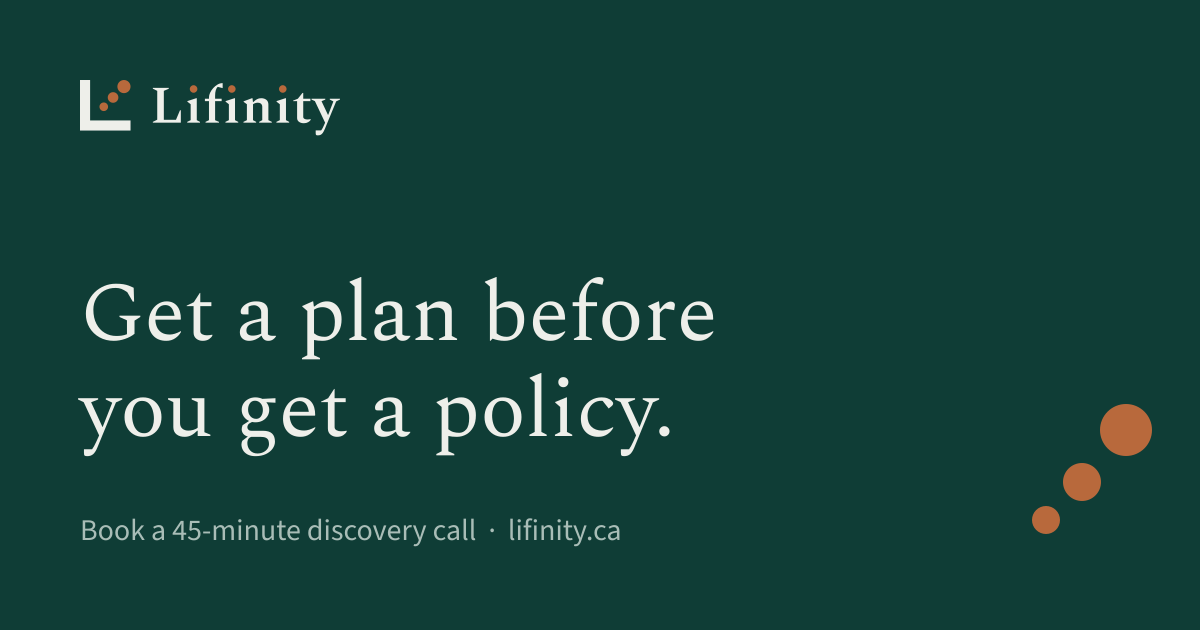
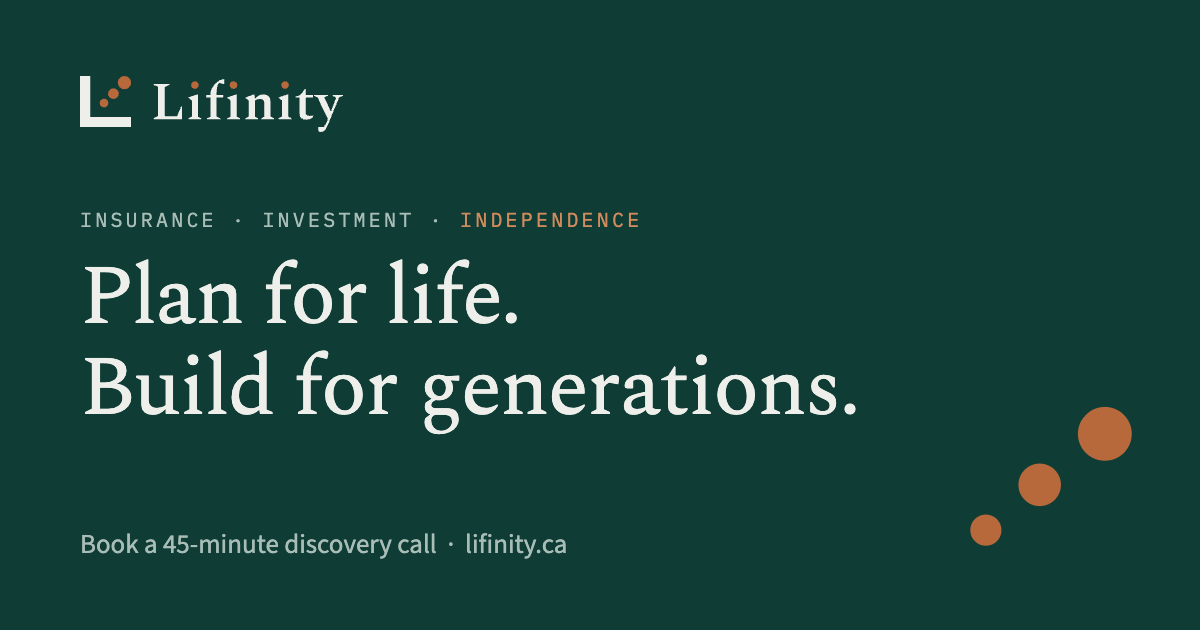
New hero: long-term planning and the three i's in Lifinity

diff --git a/index.html b/index.html
@@ -8,8 +8,8 @@
 <meta property="og:type" content="website">
 <meta property="og:url" content="https://lifinity.ca/">
 <meta property="og:title" content="Lifinity Financial Services">
-<meta property="og:description" content="Get a plan before you get a policy. Book a 45-minute discovery call with G Mon, RRA.">
-<meta property="og:image" content="https://lifinity.ca/og-image.png">
+<meta property="og:description" content="Plan for life. Build for generations. One long-term plan for families and business owners in NS, ON, AB, BC and SK.">
+<meta property="og:image" content="https://lifinity.ca/og-image.png?v=2">
 <meta name="twitter:card" content="summary_large_image">
 <link rel="icon" href="/favicon.svg" type="image/svg+xml">
 <link rel="icon" href="/favicon-32.png" sizes="32x32" type="image/png">
@@ -98,10 +98,15 @@ p{margin:0}
 .portrait figcaption span{font-size:.82rem;color:var(--band-muted)}
 .idea{position:relative;background:var(--band);color:var(--band-ink);border-radius:var(--radius);aspect-ratio:4/5;overflow:hidden;padding:clamp(1.6rem,3vw,2.4rem);display:flex;flex-direction:column;gap:.9rem;min-width:0;margin:0}
 .idea .eq{font-family:var(--f-mono);font-size:.78rem;letter-spacing:.14em;text-transform:uppercase;color:var(--band-muted)}
+.idea .eq .word{color:var(--band-ink)}
 .idea .eq b{color:var(--accent);font-weight:500}
 .idea .say{font-family:var(--f-display);font-weight:400;font-size:clamp(1.55rem,1.15rem + 1.3vw,2.25rem);line-height:1.15;color:var(--band-ink);max-width:13ch}
-.idea .corner{position:absolute;left:13%;bottom:13%;width:56%;height:44%;border-left:clamp(14px,2vw,22px) solid var(--band-ink);border-bottom:clamp(14px,2vw,22px) solid var(--band-ink)}
-.idea .mark-dots{position:absolute;left:34%;bottom:36%;width:44%;height:auto}
+.idea .say span{display:block}
+.idea .say b{color:var(--accent);font-weight:inherit}
+.idea .corner{position:absolute;left:13%;bottom:13%;width:56%;height:40%;border-left:clamp(14px,2vw,22px) solid var(--band-ink);border-bottom:clamp(14px,2vw,22px) solid var(--band-ink)}
+.idea .mark-dots{position:absolute;left:34%;bottom:31%;width:42%;height:auto}
+.h1a{display:block}
+.nowrap{white-space:nowrap}
 .idea .chapters{position:absolute;left:13%;right:9%;bottom:5.5%;display:flex;justify-content:space-between;gap:.5rem;font-family:var(--f-mono);font-size:.66rem;letter-spacing:.12em;text-transform:uppercase;color:var(--band-muted)}
 .about-portrait{margin-top:1.4rem}
 .letter .portrait::before{border-color:var(--band-ink)}
@@ -274,7 +279,8 @@ footer .wrap{display:grid;gap:2.2rem}
   .facts b{font-size:1.12rem}
   .facts li{font-size:.7rem;letter-spacing:.02em;line-height:1.45}
   .idea{min-height:380px;max-width:none;margin-top:.6rem}
-  .idea .say{font-size:1.45rem;max-width:12ch}
+  .idea .say{font-size:1.45rem;max-width:13ch}
+  .h1a{display:inline}
   .idea .corner{bottom:18%;height:31%;width:50%}
   .idea .mark-dots{bottom:38%;width:40%;left:30%}
   .idea .chapters{font-size:.58rem;letter-spacing:.07em;left:8%;right:8%}
@@ -312,24 +318,24 @@ footer .wrap{display:grid;gap:2.2rem}
     <div class="wrap">
       <div class="hero-copy">
         <span class="eyebrow"><span class="dots" aria-hidden="true"><i></i><i></i><i></i></span><span class="long">Lifinity Financial Services · Halifax, NS</span><span class="short">Lifinity · Halifax, NS</span></span>
-        <h1 id="hero-title">Get a plan before you get&nbsp;a&nbsp;policy.</h1>
-        <p class="lede"><span class="long">Lifinity helps families and business owners protect what they have, build for retirement and pass on what they've built. Every plan starts with a 45-minute discovery call, and <strong>the first thing you hear is how your advisor is paid.</strong></span><span class="short">Protect your family, build for retirement and pass it on. <strong>First, you hear how your advisor is paid.</strong></span></p>
+        <h1 id="hero-title"><span class="h1a">Plan for life.</span> Build for generations.</h1>
+        <p class="lede"><span class="long">Lifinity builds one long-term plan for families and business owners: protecting what you have, growing what you save and building the independence to live and retire on your terms.</span><span class="short">One long-term plan to protect what you have, grow what you save and retire on your terms.</span></p>
         <div class="cta-row">
           <a class="btn btn-primary" href="https://scheduler.zoom.us/f/1klh9gol" target="_blank" rel="noopener">Book a discovery call <span class="arr" aria-hidden="true">&rarr;</span></a>
           <a class="btn btn-quiet" href="#how">See how it works</a>
         </div>
         <ul class="facts">
-          <li><b>5 provinces</b><span class="long">NS · ON · AB · BC · SK</span><span class="short">NS ON AB BC SK</span></li>
+          <li><b>5 provinces</b><span class="long nowrap">NS · ON · AB · BC · SK</span><span class="short">NS ON AB BC SK</span></li>
           <li><b>In writing</b><span class="long">a summary after your call</span><span class="short">after your call</span></li>
           <li><b>4 stages</b><span class="long">from Protect to Transfer</span><span class="short">life to legacy</span></li>
         </ul>
       </div>
-      <figure class="idea" aria-label="Lifinity means life plus infinity">
-        <p class="eq">Life + infinity = <b>Lifinity</b></p>
-        <p class="say">Planning that lasts longer than you do.</p>
+      <figure class="idea" aria-label="Lifinity means life plus infinity. Its three i's stand for insurance, investment and independence.">
+        <p class="eq">Life + infinity = <span class="word">L<b>i</b>f<b>i</b>n<b>i</b>ty</span></p>
+        <p class="say"><span><b>I</b>nsurance.</span> <span><b>I</b>nvestment.</span> <span><b>I</b>ndependence.</span></p>
         <span class="corner" aria-hidden="true"></span>
-        <svg class="mark-dots" viewBox="0 0 120 100" aria-hidden="true"><circle cx="14" cy="86" r="11" fill="var(--accent)"/><circle cx="52" cy="54" r="15" fill="var(--accent)"/><circle cx="98" cy="18" r="19" fill="var(--accent)"/></svg>
-        <span class="chapters" aria-hidden="true"><span>Protect</span><span>Accumulate</span><span>Utilize</span><span>Transfer</span></span>
+        <svg class="mark-dots" viewBox="0 -3 120 103" aria-hidden="true"><circle cx="14" cy="86" r="11" fill="var(--accent)"/><circle cx="52" cy="54" r="15" fill="var(--accent)"/><circle cx="98" cy="18" r="19" fill="var(--accent)"/></svg>
+        <span class="chapters" aria-hidden="true"><span>The three i's in Lifinity</span></span>
       </figure>
     </div>
   </section>

diff --git a/CLAUDE.md b/CLAUDE.md
@@ -78,7 +78,7 @@ These rules come from the copywriting and design tutorials in `PLAYBOOK.md`.
    - If a line fails all three, rewrite it.
 3. **Facts over opinions.** Write "45-minute call", "licensed in 5 provinces", "a written summary after every call". Not "expert", "best", "trusted".
 4. **Juxtaposition.** The page's argument is *product first vs plan first*. New sections should support that contrast.
-5. **The unique promise:** "The first thing I tell you is how I'm paid." Keep it prominent.
+5. **Lead with the idea, not the process.** The hero carries Lifinity's long-term planning idea ("Plan for life. Build for generations.") and the three i's in Lifinity: Insurance, Investment, Independence. Keep the hero corporate and professional. How G Mon is paid belongs in the FAQ, the comparison and his story, not the hero. Avoid policy-first wording up top.
 6. **Short and plain.** Active voice. No buzzwords ("unlock", "empower", "seamless", "next level").
    - No mannered em-dash asides. Use Canadian spelling.
 7. **Voice of customer.** When real clients describe their problem in their own words, use their words, with permission.
@@ -91,6 +91,7 @@ G Mon is a **life and accident & sickness (LLQP) licensed agent** in NS, ON, AB,
 - **Stay inside the licence.**
   - Insurance and segregated funds only.
   - Never imply he sells or manages stocks, ETFs or mutual funds, or gives tax or legal advice.
+  - "Investment" (one of the three i's) means savings plans such as TFSA, RRSP and FHSA through segregated funds until securities licensing is in place.
   - Say "help cover estate costs", not "minimise taxes".
 - **Never say "free".** Don't call the call "free" or "complimentary". It's a "discovery call".
 - **No invented proof.**
